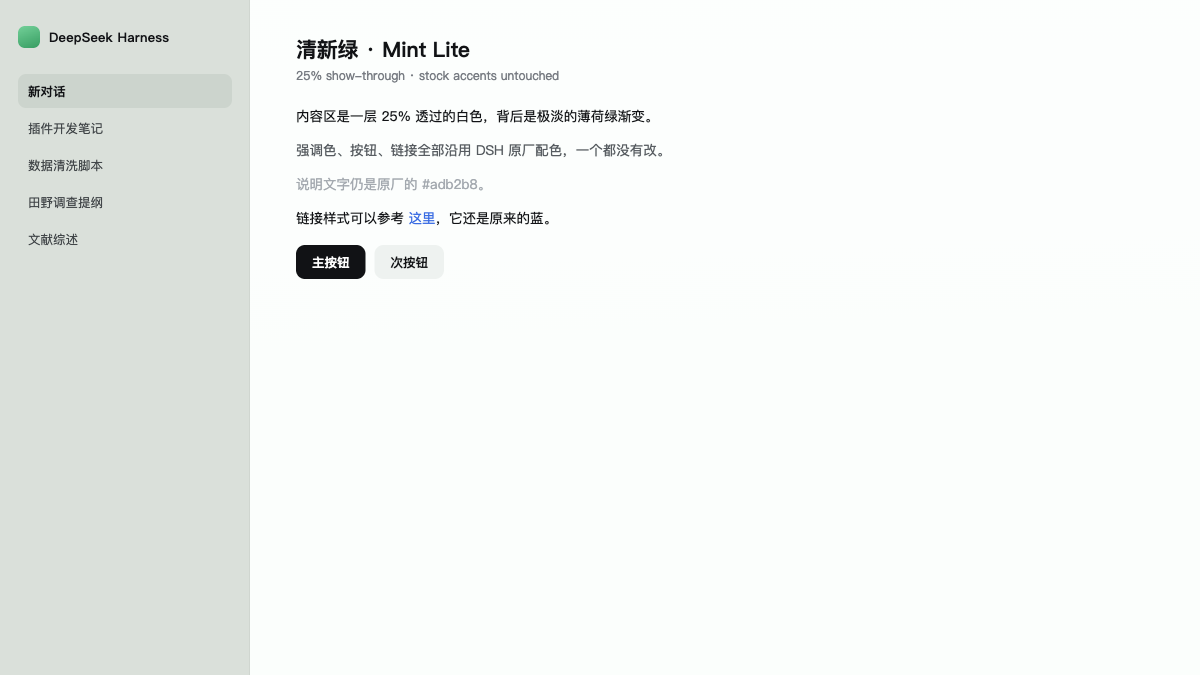
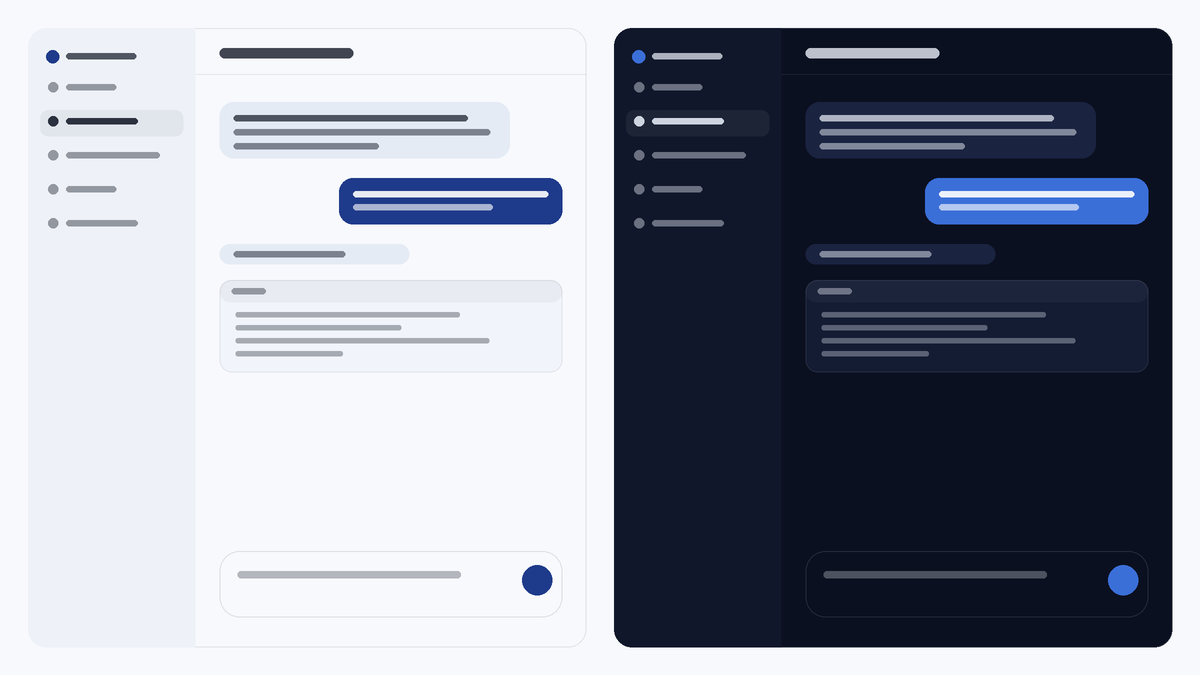
feat: 实装月光配色 (Moonlight) token 层
- 23 个 token：内容区/侧栏/气泡/分层/输入框/代码块表面 + 文字灰阶 + 边框 4 档
- 实色对齐 ds-bot 的 Moonlight 值，两层 overrideTokens 幂等，顺序无关
- 移除浅色渐变背景绘制，深色改为真正的深海军蓝配色
- 更新 README / locale / icon / preview，版本 1.1.0

diff --git a/client.js b/client.js
@@ -1,26 +1,33 @@
 // dsh-mint-lite — browser half. MIT licensed.
 //
-// Deliberately tiny: three overridden tokens, one stylesheet, zero runtime
-// machinery. No wallpapers, no backdrop-filter, no MutationObserver, no timers,
-// no settings panel, and no persistence of its own — the appearance cubes in
-// Settings -> General already persist light/dark/system for us.
+// Deliberately tiny: one token layer and one stylesheet. No wallpapers, no
+// backdrop-filter, no MutationObserver, no timers, no settings panel, and no
+// persistence of its own — the appearance cubes in Settings -> General already
+// persist light/dark/system for us.
 //
-// SCOPE: the content-area background, and nothing else.
-//   Accents are untouched: buttons, links, focus rings, status colours,
-//   borders, scrollbars, code blocks, diff colours and every text colour come
-//   from the shell's own palette. Three tokens survive: the content surface,
-//   the sidebar fill (green-grey so the two panes stay separable) and the
+// SCOPE: the palette, not the accents.
+//   Every token below paints a SURFACE or an INK level. Accents are untouched:
+//   buttons, links, focus rings, status colours, diff colours and the brand
+//   colour all keep the shell's own values. The one type token is the
 //   light-scheme font stack.
 //
-// LIGHT: 15% see-through, not "alpha 0.85".
-//   Two nested surfaces paint --dsw-alias-bg-base (ui-layout's center column,
-//   then ui-conversation's root), so alphas COMPOUND: the visible show-through
-//   is (1-a)^2. Writing 0.85 would leave 2% showing; 0.61 gives ~15%.
+// SOLID SURFACES, ON PURPOSE.
+//   This theme writes opaque colours instead of an alpha over a backdrop image.
+//   ds-bot (installed alongside) stacks its own theme layer through
+//   ctx.theme.overrideTokens, and overlap is resolved per token by layer order.
+//   Writing the SAME solid values it writes keeps both layers idempotent, so
+//   the two surfaces agree no matter which layer lands on top. An alpha value
+//   would repaint differently depending on which layer won.
 //
-// DARK IS STOCK DSH.
-//   The stylesheet's paint rule only matches the light scheme, so in dark mode
-//   this plugin adds no paint at all, and the token layer's dark column repeats
-//   the shell's own values.
+// BOTH SCHEMES ARE OURS NOW.
+//   The previous cut deferred to the shell in dark mode. The moonlight palette
+//   defines its own dark column, so the dark half is a real palette (deep navy)
+//   rather than a passthrough.
+//
+// DERIVED, NOT COPIED.
+//   The eight-colour card in MOON is the only place colours are written down;
+//   ink levels and borders are computed from it. Retune the card and the whole
+//   theme follows.
 //
 // TYPE WEIGHT: raised a little, not a full step.
 //   font-weight can only jump 400 -> 500, measured at +25% ink; that is more
@@ -42,38 +49,102 @@ window.__ModuleLoader__.load({
 		const FONT_STOCK =
 			'-apple-system, BlinkMacSystemFont, "Segoe UI", "PingFang SC", "Hiragino Sans GB", "Microsoft YaHei", "Helvetica Neue", Helvetica, Arial, sans-serif';
 
+		// --- The card ------------------------------------------------------------
+		// The only place raw colours are written down. `card` is a step above `bg`
+		// used for layered surfaces; `bubbleHi` is the highlighted bubble step.
+		const MOON = {
+			light: {
+				bg: "#f7f9fc",
+				sidebar: "#eef2f8",
+				bubble: "#e5ebf5",
+				bubbleHi: "#d8e2f2",
+				card: "#ffffff",
+				text: "#121826",
+			},
+			dark: {
+				bg: "#0b1020",
+				sidebar: "#10172a",
+				bubble: "#1a2340",
+				bubbleHi: "#232f52",
+				card: "#141c33",
+				text: "#e8edf7",
+			},
+		};
+
+		/** `rgba()` from a hex colour plus an alpha. */
+		const ink = (hex, alpha) => {
+			const n = parseInt(hex.slice(1), 16);
+			return "rgba(" + ((n >> 16) & 255) + "," + ((n >> 8) & 255) + "," + (n & 255) + "," + alpha + ")";
+		};
+
 		/**
 		 * One { light, dark } pair per token; ThemeRuntime picks a side by the
 		 * ACTIVE color scheme, so both columns must be complete.
 		 *
-		 * Every dark value below is the shell's own value, so dark is stock.
+		 * Grouped by what the token paints, so a reviewer can tell surfaces from
+		 * inks at a glance. Accents are absent by design.
 		 */
 		const TOKENS = {
-			// Content surface: white at alpha 0.61 -> (1-0.61)^2 ≈ 15% show-through.
-			"--dsw-alias-bg-base": {
-				light: "rgba(255, 255, 255, 0.61)",
-				dark: "var(--dsw-static-neutral-bluish-950)",
+			// --- content surface ------------------------------------------------
+			"--dsw-alias-bg-base": { light: MOON.light.bg, dark: MOON.dark.bg },
+			// --- sidebar --------------------------------------------------------
+			"--dsw-specific-sidebar-fill": { light: MOON.light.sidebar, dark: MOON.dark.sidebar },
+			"--dsw-specific-sidebar-nav-item-hover": {
+				light: ink(MOON.light.text, 0.06),
+				dark: ink(MOON.dark.text, 0.08),
 			},
-			// Sidebar: green-grey, kept on purpose so the panes stay separable.
-			"--dsw-specific-sidebar-fill": {
-				light: "#dfe4df",
-				dark: "var(--dsw-static-neutral-bluish-900)",
+			"--dsw-specific-sidebar-nav-item-active": {
+				light: "#e3e9f5",
+				dark: MOON.dark.bubble,
 			},
-			"--dsh-font-family-text-default": {
-				light: FONT_ROUNDED,
-				dark: FONT_STOCK,
+			// --- bubbles --------------------------------------------------------
+			"--dsw-specific-bubble": { light: MOON.light.bubble, dark: MOON.dark.bubble },
+			"--dsw-specific-bubble-highlight": { light: MOON.light.bubbleHi, dark: MOON.dark.bubbleHi },
+			// --- layered surfaces -----------------------------------------------
+			// Three steps above the content surface, so cards, popovers and menus
+			// sit on the palette instead of on the shell's neutral greys.
+			"--dsw-alias-bg-layer-1": { light: MOON.light.card, dark: MOON.dark.card },
+			"--dsw-alias-bg-layer-2": { light: MOON.light.card, dark: MOON.dark.bubble },
+			"--dsw-alias-bg-layer-3": { light: MOON.light.card, dark: MOON.dark.bubbleHi },
+			"--dsw-alias-bg-module-platform": { light: MOON.light.sidebar, dark: MOON.dark.card },
+			// Must match ds-bot's own pair (light.bg / dark.sidebar), not `card`: both
+			// layers write this token, and the composer card is the surface where a
+			// mismatch between them is most visible.
+			"--dsw-specific-input-major": { light: MOON.light.bg, dark: MOON.dark.sidebar },
+			// --- interactive fills ----------------------------------------------
+			"--dsw-alias-interactive-bg-hover": {
+				light: ink(MOON.light.text, 0.06),
+				dark: ink(MOON.dark.text, 0.08),
 			},
+			"--dsw-alias-interactive-bg-active": {
+				light: ink(MOON.light.text, 0.1),
+				dark: ink(MOON.dark.text, 0.12),
+			},
+			"--dsw-alias-interactive-bg-hover-solid": { light: MOON.light.sidebar, dark: MOON.dark.bubble },
+			// --- inks ------------------------------------------------------------
+			"--dsw-alias-label-primary": { light: MOON.light.text, dark: MOON.dark.text },
+			"--dsw-alias-label-secondary": {
+				light: ink(MOON.light.text, 0.74),
+				dark: ink(MOON.dark.text, 0.74),
+			},
+			"--dsw-alias-label-tertiary": {
+				light: ink(MOON.light.text, 0.6),
+				dark: ink(MOON.dark.text, 0.6),
+			},
+			// --- borders ---------------------------------------------------------
+			// Cooler alphas than the shell's neutral hairlines, so borders sit on the
+			// palette rather than reading as a warm line over a cool surface.
+			"--dsw-alias-border-l1": { light: ink(MOON.light.text, 0.04), dark: ink(MOON.dark.text, 0.06) },
+			"--dsw-alias-border-l2": { light: ink(MOON.light.text, 0.1), dark: ink(MOON.dark.text, 0.12) },
+			"--dsw-alias-border-l3": { light: ink(MOON.light.text, 0.12), dark: ink(MOON.dark.text, 0.16) },
+			"--dsw-alias-border-l4": { light: ink(MOON.light.text, 0.16), dark: ink(MOON.dark.text, 0.2) },
+			// --- code ------------------------------------------------------------
+			"--dsw-alias-markdown-code-block": { light: "#f1f4fa", dark: MOON.dark.card },
+			// --- type ------------------------------------------------------------
+			"--dsh-font-family-text-default": { light: FONT_ROUNDED, dark: FONT_STOCK },
 		};
 
-		/**
-		 * The only custom paint: a pale green wash behind the content surface.
-		 * Deep enough to survive the 15% show-through — a near-white gradient
-		 * would land within 1 RGB step of white and read as plain white.
-		 */
-		const BACKDROP_LIGHT =
-			"linear-gradient(178deg, #eefcf4 0%, #eafaf0 38%, #e6f8ec 68%, #e2f6e8 100%)";
-
-		const STYLE_ID = "dsh-mint-lite-backdrop";
+		const STYLE_ID = "dsh-mint-lite-ink";
 
 		/** Ink is only nudged heavier; see the header note on measured ink. */
 		const STROKE = "0.18px";
@@ -83,13 +154,6 @@ window.__ModuleLoader__.load({
 				const style = document.createElement("style");
 				style.id = STYLE_ID;
 				style.textContent = [
-					// --- backdrop, light scheme only ----------------------------
-					// No dark rule on purpose: stock dark already paints its own
-					// background, and an image there would only add work.
-					"body:not([data-ds-dark-theme]) {",
-					"  background-image: " + BACKDROP_LIGHT + ";",
-					"  background-attachment: fixed;",
-					"}",
 					// --- slightly heavier ink ------------------------------------
 					// Applied to text-bearing elements only, and only where the
 					// platform actually rasterises a stroke. `paint-order: stroke`
@@ -111,7 +175,7 @@ window.__ModuleLoader__.load({
 				return () => {
 					style.remove();
 				};
-			}, "dsh-mint-lite: backdrop + ink");
+			}, "dsh-mint-lite: ink");
 		}
 
 		const inject = ["theme"];

diff --git a/README.md b/README.md
@@ -1,10 +1,10 @@
 # dsh-mint-lite
 
-一个给 **DeepSeek Harness（DSH）** 用的极轻量浅色主题：淡薄荷绿的内容区、圆润字体，深色完全沿用原生配色。
+一个给 **DeepSeek Harness（DSH）** 用的极轻量月光配色主题：冷白偏蓝的内容区、深海军蓝的深色模式、圆润字体，强调色一个都不动。
 
-> 为「性能敏感」而做。DSH 主题插件常见的做法是叠壁纸层、毛玻璃、监听 DOM 重绘——这些都会持续吃 GPU 和电。这个插件反过来：**只改 3 个 token、注入 1 段样式，运行时没有任何循环、监听或重绘。**
+> 为「性能敏感」而做。DSH 主题插件常见的做法是叠壁纸层、毛玻璃、监听 DOM 重绘——这些都会持续吃 GPU 和电。这个插件反过来：**只覆盖 token、注入 1 段样式，运行时没有任何循环、监听或重绘。**
 
-<img src="./assets/preview.png" alt="dsh-mint-lite 浅色效果" width="100%">
+<img src="./assets/preview.png" alt="dsh-mint-lite 月光配色效果" width="100%">
 
 *上图为配色渲染示意，不是应用截图。*
 
@@ -14,9 +14,9 @@
 
 | 项目 | 数值 |
 |---|---|
-| 覆盖的 theme token | **3 个**（全部 61 个 token 里只动 3 个） |
+| 覆盖的 theme token | **23 个**（全部 61 个 token 里只动这 23 个） |
 | 注入的 `<style>` | **1 个** |
-| `client.js` 体积 | 约 5 KB（未压缩） |
+| `client.js` 体积 | 约 9 KB（未压缩） |
 | 宿主侧代码 | 0 行逻辑（`apply()` 是空函数） |
 | `backdrop-filter` | 无 |
 | `MutationObserver` / `ResizeObserver` | 无 |
@@ -24,30 +24,43 @@
 | `localStorage` / 状态文件 / 设置面板 | 无 |
 | 卸载后残留 | 无（`ctx.effect` 的 disposer 会摘掉样式和 token 层） |
 
-深色模式下这个插件**连背景图都不写**——样式表里那条绘制规则只匹配 `body:not([data-ds-dark-theme])`。
-
 ## 它长什么样
 
-- **内容区**：白色以 15% 透过率叠在极淡薄荷绿渐变上，合成后约 `#f8fefb → #f4fbf6`。
-- **侧栏**：绿灰 `#dfe4df`，和内容区拉开约 1.26:1 的分界，两侧不糊在一起。
+配色表来自 ds-bot 的 Moonlight 主题，8 色卡：
+
+| 键 | light | dark |
+|---|---|---|
+| bg | `#f7f9fc` | `#0b1020` |
+| sidebar | `#eef2f8` | `#10172a` |
+| bubble | `#e5ebf5` | `#1a2340` |
+| bubbleHi | `#d8e2f2` | `#232f52` |
+| card | `#ffffff` | `#141c33` |
+| text | `#121826` | `#e8edf7` |
+
+**实色，不是半透明。** 早先的版本用 `rgba(255,255,255,0.61)` 叠一层薄荷渐变；月光版本改成实色。原因是 ds-bot 也通过 `ctx.theme.overrideTokens` 往同一批 shell token 里写值，两层叠在一起时后注册的赢——只有两边写**完全相同的实色值**，结果才与顺序无关。
+
+- **浅色**：冷白 `#f7f9fc` 内容区，蓝灰 `#eef2f8` 侧栏。
+- **深色**：深海军蓝 `#0b1020` 内容区，`#10172a` 侧栏，卡片抬到 `#141c33`。
 - **字体**：`SF Pro Rounded` / `ui-rounded`，仅浅色生效；字重靠 `-webkit-text-stroke: 0.18px` 微调（`font-weight` 最小跳档是 400→500，墨水量 +25%，太粗了）。
-- **深色**：**原厂**。不注入任何绘制，全部 token 侧值都是宿主自己的变量引用。
 
 ## 强调色一个都没改
 
-按钮、链接、焦点环、成功/警告/错误状态色、边框、滚动条、代码块、diff 配色、所有文字颜色——**全部来自 DSH 原生调色板**。这个插件只碰两件事：内容区背景的透明度与色调，以及浅色的字体族。
+按钮、链接、焦点环、成功/警告/错误状态色、diff 配色、品牌色、滚动条——**全部来自 DSH 原生调色板**。这个插件只碰两件事：**表面色**（底、侧栏、气泡、分层、输入框、代码块）和**文字灰阶**（primary / secondary / tertiary + 边框 4 档）。
 
-对比度（原厂 ink 落在实际合成背景上）：
+对比度（落在实际实色背景上）：
 
-| 用途 | token | 对比度 |
+| 用途 | light | dark |
 |---|---|---|
-| 正文 | `label-primary` | 18.3:1 |
-| 次要文字 | `label-secondary` | 5.63:1 |
-| 三级文字 | `label-tertiary` | 3.59:1 |
-| 说明文字 | `label-caption` | 2.07:1 |
-| 链接 | `link` | 4.11:1 |
+| 正文 on bg | 16.81:1 | 16.13:1 |
+| 正文 on sidebar | 15.78:1 | 15.18:1 |
+| 正文 on bubble | 14.80:1 | 13.17:1 |
+| 二级文字（74%） | 7.39:1 | 9.11:1 |
+| 三级文字（60%） | 4.57:1 | 6.31:1 |
+| 侧栏 / 内容区 | 1.07:1 | 1.06:1 |
 
-说明文字 2.07 与它在纯白上的原生值 2.13 几乎一致——这就是没偷偷改文字色的证据。
+侧栏与内容区只差一个色相台阶（1.07:1），这是月光本身的设计：靠**色温**分离，不靠明度。要更强的分界感，改 `MOON.light.sidebar` 往下压。
+
+原生 `link` `#4176e6` 落在 `#f7f9fc` 上是 4.02:1（白底 4.23），刚好卡在 AA 边缘；深色下 `#7aaaff` 是 8.13:1，很宽裕。
 
 ## 安装
 
@@ -70,6 +83,10 @@
 
 也可以用 `file:` 或直接解包到 `node_modules/dsh-mint-lite`。
 
+### 和 ds-bot 一起用
+
+两者都会往 shell token 里写值。按 bundle 顺序，ds-bot 的层覆盖本插件。本插件写的值与 ds-bot 的 Moonlight 完全一致，所以无论哪层在上，观感都一样——**前提是 ds-bot 里的团队主题也选 Moonlight**。ds-bot 切到别的主题时，它那半边会跟着变，本插件管不到。
+
 ## 切换浅色 / 深色
 
 本插件**不注册自己的主题 id，也不存任何偏好**。浅色、深色、跟随系统走 DSH 自带的「设置 → 通用 → 外观」，由宿主的 `ui-theme.preference` 持久化。
@@ -80,13 +97,13 @@
 
 | 想改什么 | 改哪里 |
 |---|---|
-| 绿一点 / 淡一点 | `BACKDROP_LIGHT` 的四个色值 |
-| 内容区透明度 | `--dsw-alias-bg-base` 的 `alpha`，**注意是平方关系**：`(1-a)²` 才是实际透出率。`0.61 → 15%` |
-| 侧栏深浅 | `--dsw-specific-sidebar-fill` |
+| 整体色调 | `MOON` 那张 8 色卡（light / dark 各 6 个键） |
+| 文字灰阶浓度 | `TOKENS` 里 `label-secondary` / `label-tertiary` 的 `0.74` / `0.6` |
+| 边框强度 | `border-l1~l4` 的四个 alpha |
+| 侧栏分界 | `MOON.*.sidebar` |
 | 字体 | `FONT_ROUNDED` |
 | 字重 | `STROKE`（`0.18px` ≈ +7% 墨水量，`0.30px` ≈ +13%） |
-
-关于透明度那条：`--dsw-alias-bg-base` 会被**两层**嵌套面板同时绘制（`ui-layout` 的中列，然后 `ui-conversation` 的根节点），alpha 会叠加。写 `0.75` 实际只剩 6% 透出，几乎看不出透明。
+| 深色退出 | 把 `TOKENS` 每一对的 `dark` 改成 `var(--dsw-static-*)` 引用 |
 
 ## 兼容性
 
